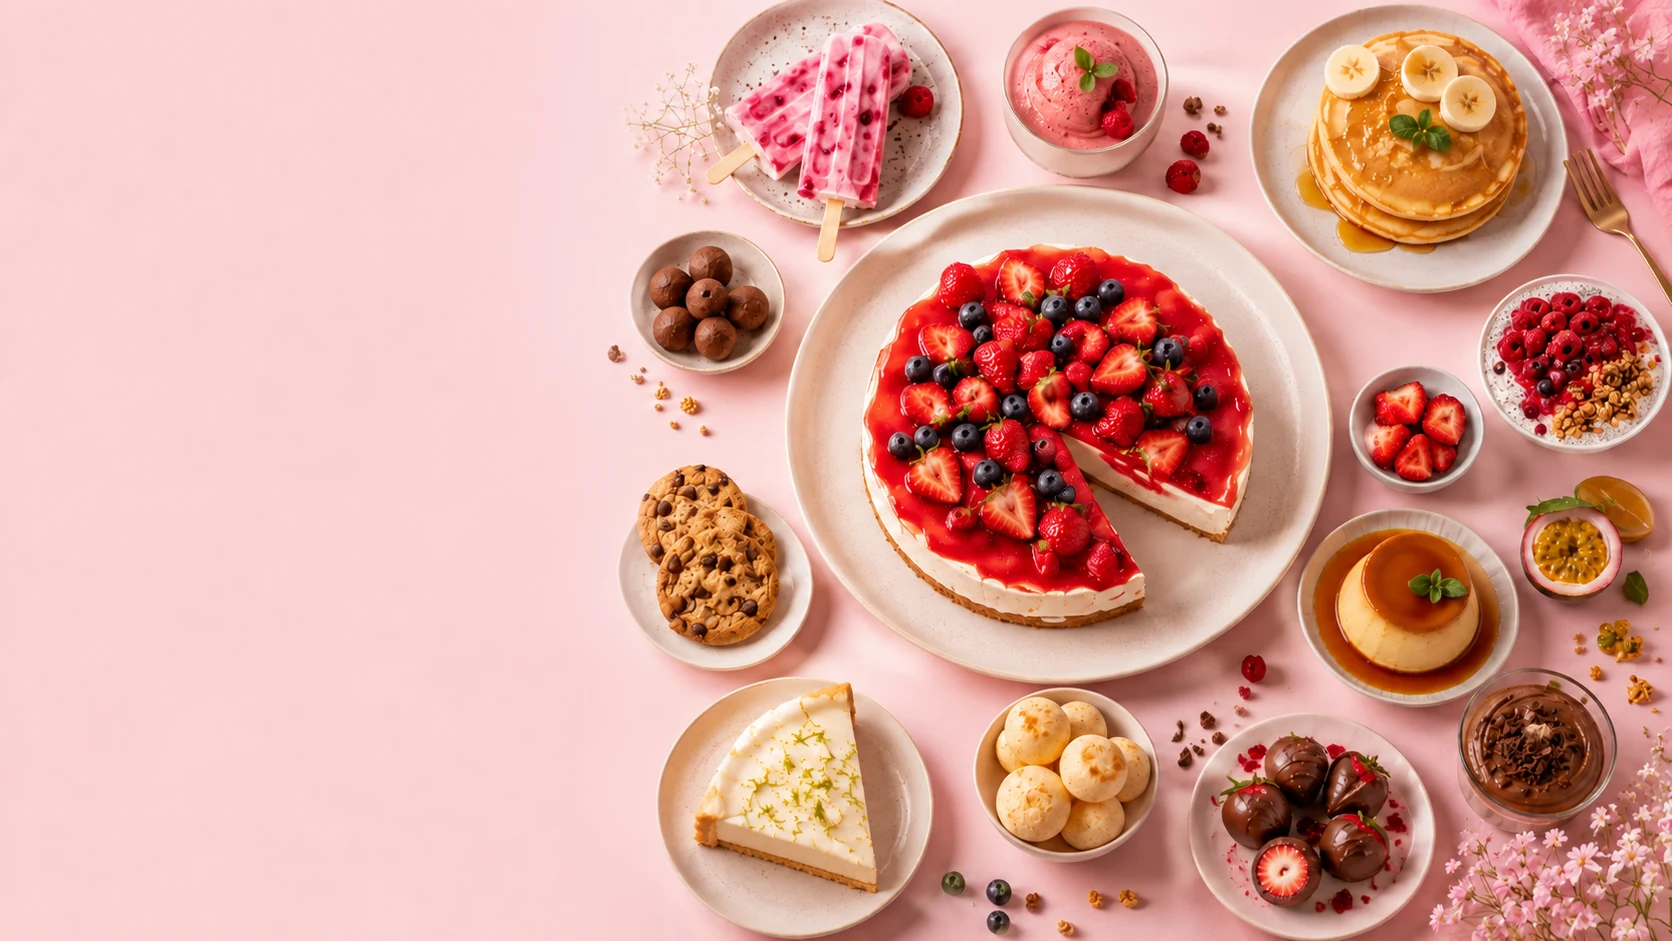
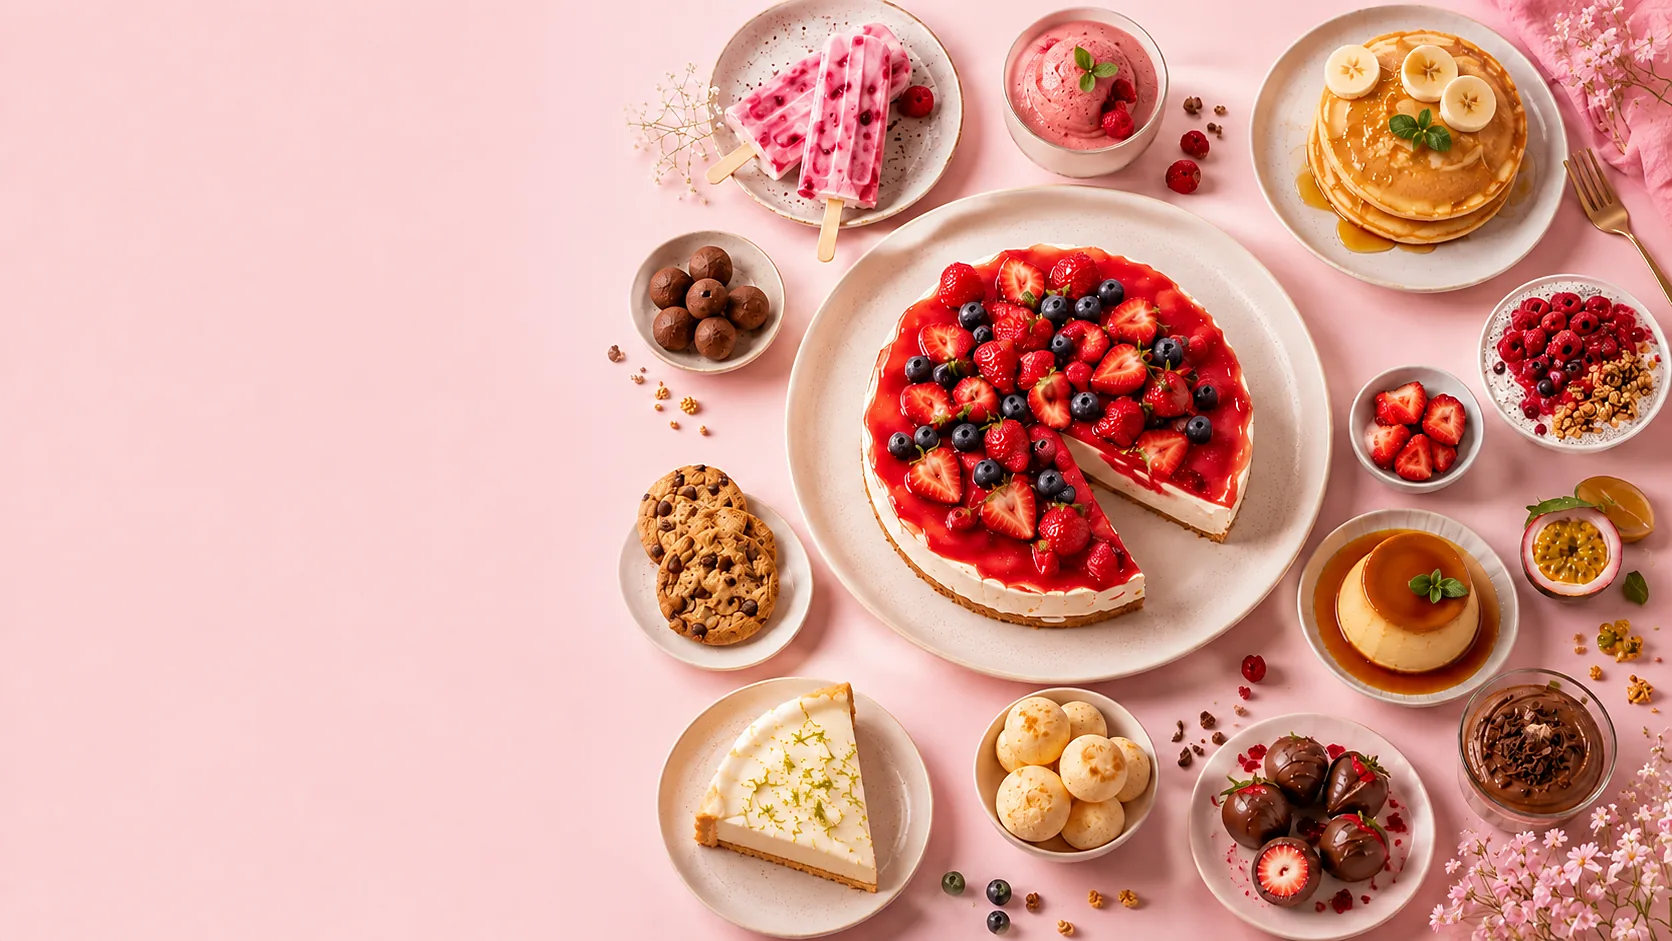
Hero mais nitido: para de ampliar a imagem, unsharp e variante 2x
Medicao (variancia do laplaciano) mostrou onde estava e onde NAO estava
o problema:

- COMPRESSAO nao era o gargalo: fonte = 257,9; WebP q88 = 256,0. Subir
  para q95 custaria +126KB por ganho zero. Baixei para q82, que com
  unsharp mede 427,7 (contra 433,8 do q90) e pesa 170KB — mais leve que
  os 184KB anteriores E muito mais nitido.
- O ganho veio de (a) unsharp mask r1.0/80% (256 -> 428; acima de
  r1.2/100% comeca a criar halo em borda de fruta) e (b) parar de
  AMPLIAR: --hero-band era 2000px contra 1672px nativos da arte. Agora
  trava em 1672. Havia tambem um override de 2000px no breakpoint de
  2560px, removido.
- Adicionada variante @2x (3344x1882, Lanczos) via srcset + imagesrcset
  no preload, para telas de alta densidade. Nao cria detalhe novo, mas
  entrega o dobro de pixels em vez de deixar o navegador ampliar.

Limite que permanece: a fonte tem 1672px de detalhe real. Nitidez de
verdade em tela Retina exige a arte regerada em ~3000-4000px.

Amostragem de pixel revalidada apos a mudanca de largura da faixa:
0 falhas de contraste em 1920 e 3440px.

Changed region(s): [[0.933, 0.4006, 0.9641, 0.4623]]

diff --git a/index.html b/index.html
@@ -36,6 +36,7 @@
       href="https://fonts.googleapis.com/css2?family=Inter:wght@400;500;600&family=Poppins:wght@600;700;800&display=swap">
 <link rel="preload" as="image" href="img/hero-mobile.webp" media="(max-width:899px)" fetchpriority="high">
 <link rel="preload" as="image" href="img/hero-desktop.webp"
+      imagesrcset="img/hero-desktop.webp 1x, img/hero-desktop@2x.webp 2x"
       media="(min-width:900px)" fetchpriority="high">
 
 <!-- ══════════════════════════════════════════════════════════════
@@ -156,11 +157,12 @@ fbq('track', 'PageView');
      no bloco 9 (DESKTOP). */
   --shell-max:1240px;
   --shell:min(100% - (var(--pad) * 2), var(--shell-max));
-  /* Teto da FAIXA da fotografia do hero. A arte tem 1672px nativos:
-     esticá-la além de ~2000px vira upscale visível, então a faixa
-     trava aí e o resto da tela fica no mesmo rosa do fundo da foto
-     (--hero-pink), sem emenda perceptível. */
-  --hero-band:2000px;
+  /* Teto da FAIXA da fotografia do hero = a resolução NATIVA da arte
+     (1672px). Acima disso a imagem seria ampliada e perderia nitidez —
+     era o que acontecia com o teto anterior de 2000px. O resto da tela
+     fica no mesmo rosa do fundo da foto (--hero-pink), sem emenda
+     perceptível, então travar aqui não cria "espaço vazio". */
+  --hero-band:1672px;
   --gap-sec:clamp(64px,13vw,120px);   /* respiro entre seções */
   --sticky-h:0px;
 }
@@ -1080,7 +1082,9 @@ a:focus-visible,button:focus-visible,summary:focus-visible,[tabindex]:focus-visi
   .hero__sub{font-size:19px}
 }
 @media (min-width:2560px){
-  :root{--shell-max:1560px;--hero-band:2000px}
+  /* --hero-band NÃO é alargado aqui: a arte tem 1672px nativos e
+     esticá-la para 2000px era justamente o que tirava a nitidez. */
+  :root{--shell-max:1560px}
   .hero__title{font-size:56px}
   .hero__sub{font-size:20px}
   .hero__stats b{font-size:30px}
@@ -1136,7 +1140,11 @@ a:focus-visible,button:focus-visible,summary:focus-visible,[tabindex]:focus-visi
        está queimado na imagem: headline, CTA e selos são HTML/CSS. -->
   <div class="hero__media">
     <picture>
-      <source media="(min-width:900px)" srcset="img/hero-desktop.webp"
+      <!-- 2x só para telas de alta densidade: o Lanczos não cria detalhe
+           novo, mas entrega o dobro de pixels em vez de deixar o
+           navegador ampliar sozinho. Telas 1x não baixam esse arquivo. -->
+      <source media="(min-width:900px)"
+              srcset="img/hero-desktop.webp 1x, img/hero-desktop@2x.webp 2x"
               width="1672" height="941">
       <img src="img/hero-mobile.webp" width="1170" height="2095"
            fetchpriority="high" decoding="async"
